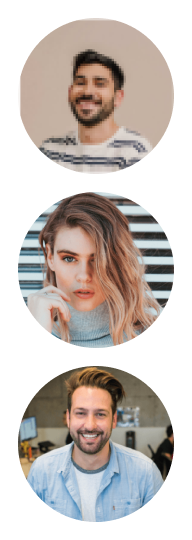
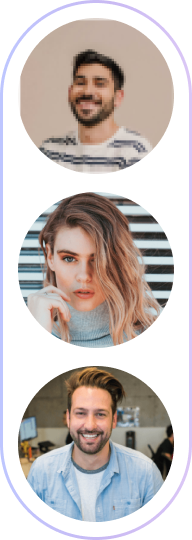
work on hero section on responsiveness

diff --git a/src/components/Hero.jsx b/src/components/Hero.jsx
@@ -6,12 +6,28 @@ import Image from 'next/image'
 
 const Hero = () => {
     return (
-        <div className='container max-w-[1094px] mt-16'>
-            <BlueIconBox text='Welcome to Moviegen new version' className='mx-auto' />
-            <Heading textName='Professional Videos in Just a Few Clicks' className='max-w-[600px] mt-6' />
-            <Paragraph textName='Simple video editing for everyone. Add subtitles, text, music, and much more to your videos with just a few clicks.' className='max-w-[580px]' />
-            <div className='flex justify-center relative'>
-                <Image src="/assets/images/png/hero.png" className='mt-16 object-cover object-center' width={998} height={576} alt="hero bg" />
+        <div className='bg-hero-bg pb-20'>
+            <div className='container max-w-[1094px] pt-16'>
+                <BlueIconBox text='Welcome to Moviegen new version' className='mx-auto' />
+                <Heading textName='Professional Videos in Just a Few Clicks' className='max-w-[600px] mt-6' />
+                <Paragraph textName='Simple video editing for everyone. Add subtitles, text, music, and much more to your videos with just a few clicks.' className='max-w-[580px]' />
+                <div className='bg-white bg-opacity-10 p-2 rounded-2xl mt-16'>
+                    <div className='flex justify-center relative shadow-hero bg-white bg-opacity-30 border border-border rounded-2xl p-2'>
+                        <Image src="/assets/images/png/hero.png"
+                            className="object-cover object-center md:h-[390px] lg:h-[480px] xl:h-[576px] rounded-2xl w-full"
+                            width={936} height={576} alt="hero bg" priority />
+                        <Image src="/assets/images/png/hero-men.png" className="sm:w-16 sm:h-[180px] absolute -right-5 top-[145px]"
+                            width={64} height={180} alt="hero men" priority />
+                        <Image
+                            src="/assets/images/png/input.png"
+                            className="absolute -bottom-7 -right-9" width={351} height={84} alt="input" priority />
+                        <Image
+                            src="/assets/images/png/translator.png" className="absolute bottom-[118px] -left-[104px] drop-shadow-hero-translator" width={224} height={255}
+                            alt="translator" priority />
+                        <Image src="/assets/images/png/blue-ball.png" className="absolute bottom-16 -left-4" width={48}
+                            height={48} alt="blue ball" priority />
+                    </div>
+                </div>
             </div>
         </div>
     )
